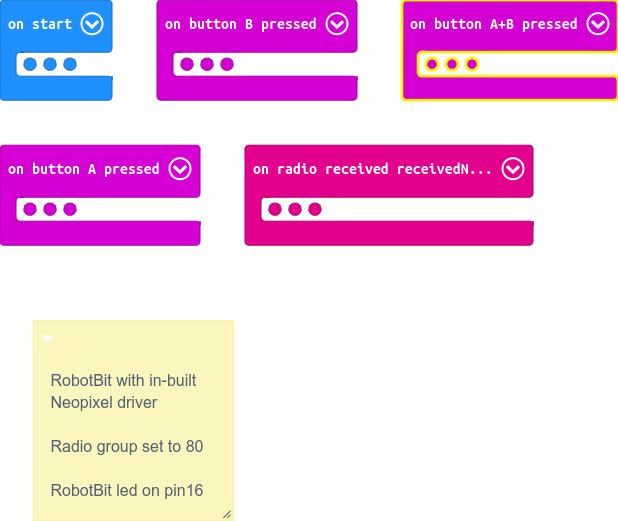
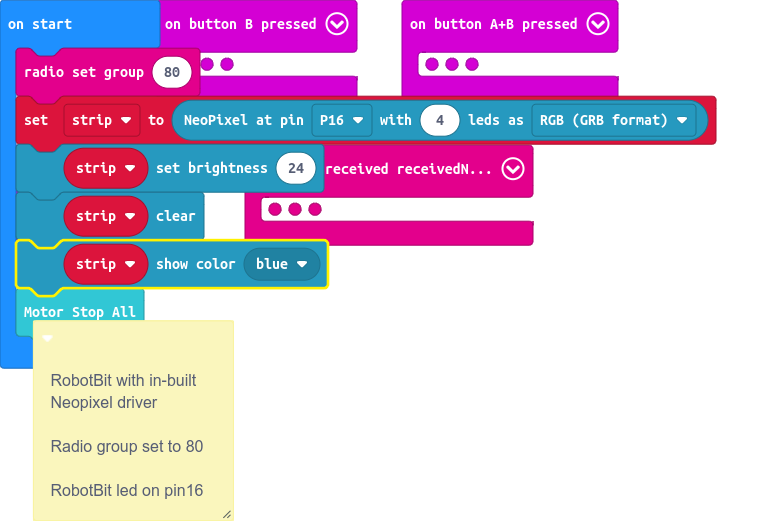
Update main.blocks, main.ts

diff --git a/main.ts b/main.ts
@@ -1,26 +1,3 @@
-/**
- * RobotBit with in-built Neopixel driver
- * 
- * Radio group set to 80
- * 
- * RobotBit led on pin16
- * 
- * DC motor connected to M1B
- * 
- * 2 servos connected to S1 & S8
- * 
- * Number received meaning : 
- * 
- * 0 = stop all DC motors + set S1 & S8 to 90°
- * 
- * 1 = Set DC motor to speed of 64
- * 
- * 2 = set S! + S8 to random posistions
- * 
- * Use A / B / A+B to test 
- * 
- *  motor / servo manually
- */
 radio.onReceivedNumber(function (receivedNumber) {
     if (receivedNumber == 0) {
         robotbit.MotorStopAll()
@@ -51,9 +28,32 @@ input.onButtonPressed(Button.AB, function () {
 input.onButtonPressed(Button.B, function () {
     robotbit.MotorRun(robotbit.Motors.M1B, 64)
 })
+/**
+ * RobotBit with in-built Neopixel driver
+ * 
+ * Radio group set to 80
+ * 
+ * RobotBit led on pin16
+ * 
+ * DC motor connected to M1B
+ * 
+ * 2 servos connected to S1 & S8
+ * 
+ * Number received meaning : 
+ * 
+ * 0 = stop all DC motors + set S1 & S8 to 90°
+ * 
+ * 1 = Set DC motor to speed of 64
+ * 
+ * 2 = set S! + S8 to random posistions
+ * 
+ * Use A / B / A+B to test 
+ * 
+ *  motor / servo manually
+ */
 radio.setGroup(80)
 let strip = neopixel.create(DigitalPin.P16, 4, NeoPixelMode.RGB)
 strip.setBrightness(24)
 strip.clear()
-strip.showColor(neopixel.colors(NeoPixelColors.Green))
+strip.showColor(neopixel.colors(NeoPixelColors.Blue))
 robotbit.MotorStopAll()
